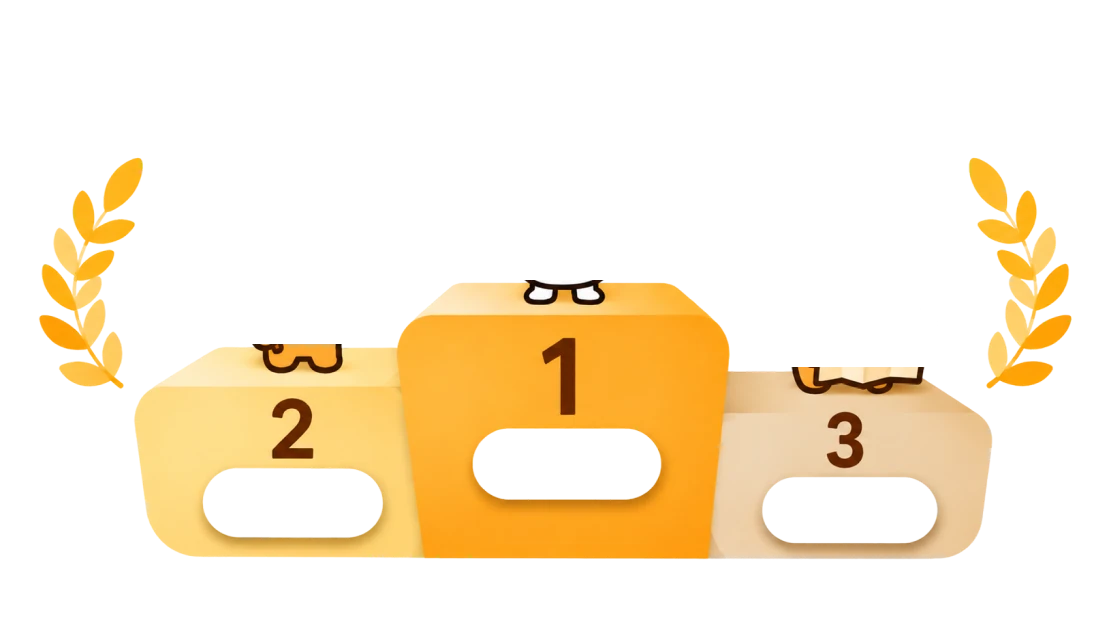
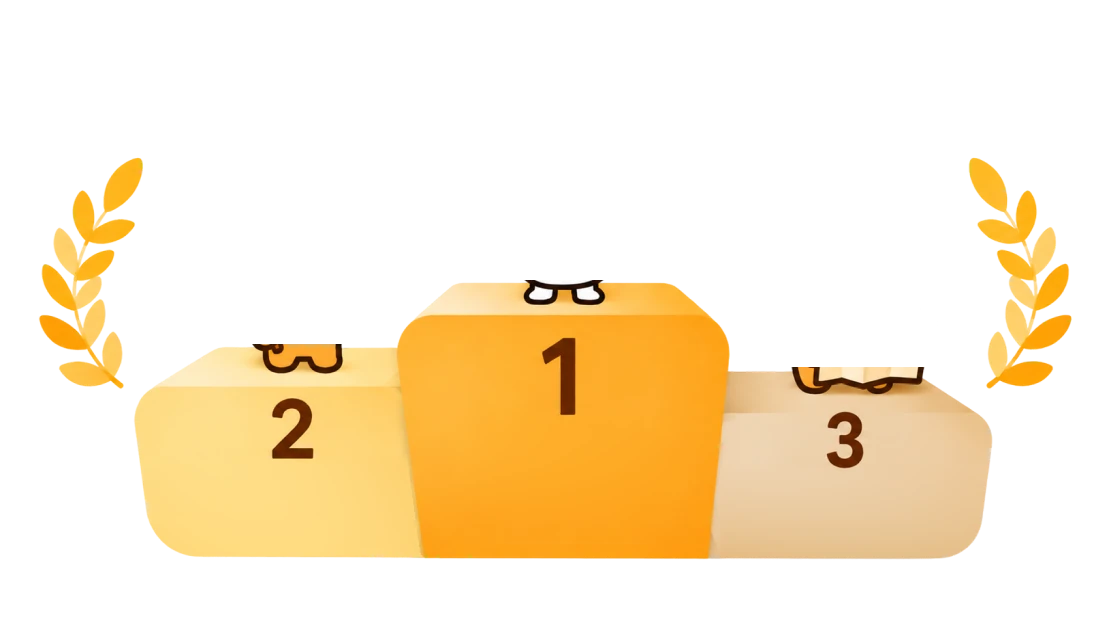
랭킹 시상대의 빈 박스를 메우고 목록 스크롤 막대 숨김
Claude-Session: https://claude.ai/code/session_01TkPmf8hdr1NqvYJPerVjbR

Changed region(s): [[0.3982, 0.6731, 0.6126, 0.8261], [0.1838, 0.7343, 0.3676, 0.8873], [0.6432, 0.7649, 0.8577, 0.9179]]

diff --git a/apps/web/src/pages/Ranking.module.css b/apps/web/src/pages/Ranking.module.css
@@ -278,10 +278,16 @@
   margin: 0;
   padding: 0 0 4px;
   overflow-y: auto;
+  /* 스크롤은 되지만 스크롤 막대는 숨김 (PC · 일부 안드로이드에서 막대가 카드 옆에 보였음) */
+  scrollbar-width: none;
   list-style: none;
   display: flex;
   flex-direction: column;
   gap: 8px;
+}
+
+.list::-webkit-scrollbar {
+  display: none;
 }
 
 .row,

diff --git a/HANDOFF.md b/HANDOFF.md
@@ -51,7 +51,7 @@
 - 랭킹: `GET /api/ranking?episodeId=&userId=`(token을 보내면 내 순위 포함), 탭 화면 `/ranking`. 포인트 많은 순 → 소요 시간 짧은 순 → 먼저 끝낸 순, 상위 50명 + 내 순위.
   소요 시간은 서버 시각(`place_progress`의 첫 `verified_at` ~ 마지막 `clue_at`)으로 계산하고 기기가 보낸 시각은 안 씀. 6분 미만은 실제로 걸어서 풀었다고 볼 수 없어 "시간 기록 없음", 같은 점수에서 맨 뒤 (`api/ranking.ts`의 `MIN_TRUSTED_SECONDS`에 계산 근거)
 
-- 랭킹 탭을 Figma 새 시안(714:5794)대로 바꿈 (`design/ranking-podium`): 위쪽 숲 배경 + 시상대에 1~3위 카드(닉네임 · 포인트 · 시간), 그 아래 내 순위 카드, 4위부터 목록, 아래 노란 물결. 1~3위가 나면 시상대 카드에 주황 테두리. 그림 3장(`ranking-stage` 2x · `ranking-podium` 3x · `ranking-wave` 3x). 시상대 카드는 닉네임이 길면 양옆으로 넓어지고(최대 90px) 9자 이상은 글자를 9px로 줄임, 그래도 넘치면 말줄임. 등장 애니메이션: 시상대가 솟아오름 → 3 · 2 · 1위 카드 순서로 튀어나옴 → 1위 카드 주황빛, 아래 물결 일렁임. 물결 그림은 Figma 원본 위쪽의 회색 얼룩을 지우고 크림색 그러데이션으로 바꾼 것 (Figma에는 얼룩이 그대로 있음). "완주 N명"은 불러오는 중 · 실패 때도 "완주 -명"으로 자리 유지. 캐릭터 3마리는 시상대 그림에서 윗부분만 따로 잘라 제자리에서 통통 움직임 (발은 바닥 그림에 남김. 세로로 늘이기 + 기울이기만 써야 이음선이 안 어긋남)
+- 랭킹 탭을 Figma 새 시안(714:5794)대로 바꿈 (`design/ranking-podium`): 위쪽 숲 배경 + 시상대에 1~3위 카드(닉네임 · 포인트 · 시간), 그 아래 내 순위 카드, 4위부터 목록, 아래 노란 물결. 1~3위가 나면 시상대 카드에 주황 테두리. 그림 3장(`ranking-stage` 2x · `ranking-podium` 3x · `ranking-wave` 3x). 시상대 카드는 닉네임이 길면 양옆으로 넓어지고(최대 90px) 9자 이상은 글자를 9px로 줄임, 그래도 넘치면 말줄임. 등장 애니메이션: 시상대가 솟아오름 → 3 · 2 · 1위 카드 순서로 튀어나옴 → 1위 카드 주황빛, 아래 물결 일렁임. 물결 그림은 Figma 원본 위쪽의 회색 얼룩을 지우고 크림색 그러데이션으로 바꾼 것 (Figma에는 얼룩이 그대로 있음). "완주 N명"은 불러오는 중 · 실패 때도 "완주 -명"으로 자리 유지. 시상대 그림의 빈 이름 카드 자리(구멍)는 메워서, 이름 카드가 나오기 전이나 완주자가 3명보다 적을 때 빈 박스가 안 보임. 목록 스크롤 막대는 숨김 (`fix/ranking-scrollbar-pills`). 캐릭터 3마리는 시상대 그림에서 윗부분만 따로 잘라 제자리에서 통통 움직임 (발은 바닥 그림에 남김. 세로로 늘이기 + 기울이기만 써야 이음선이 안 어긋남)
 
 ## 다음 할 일
 
